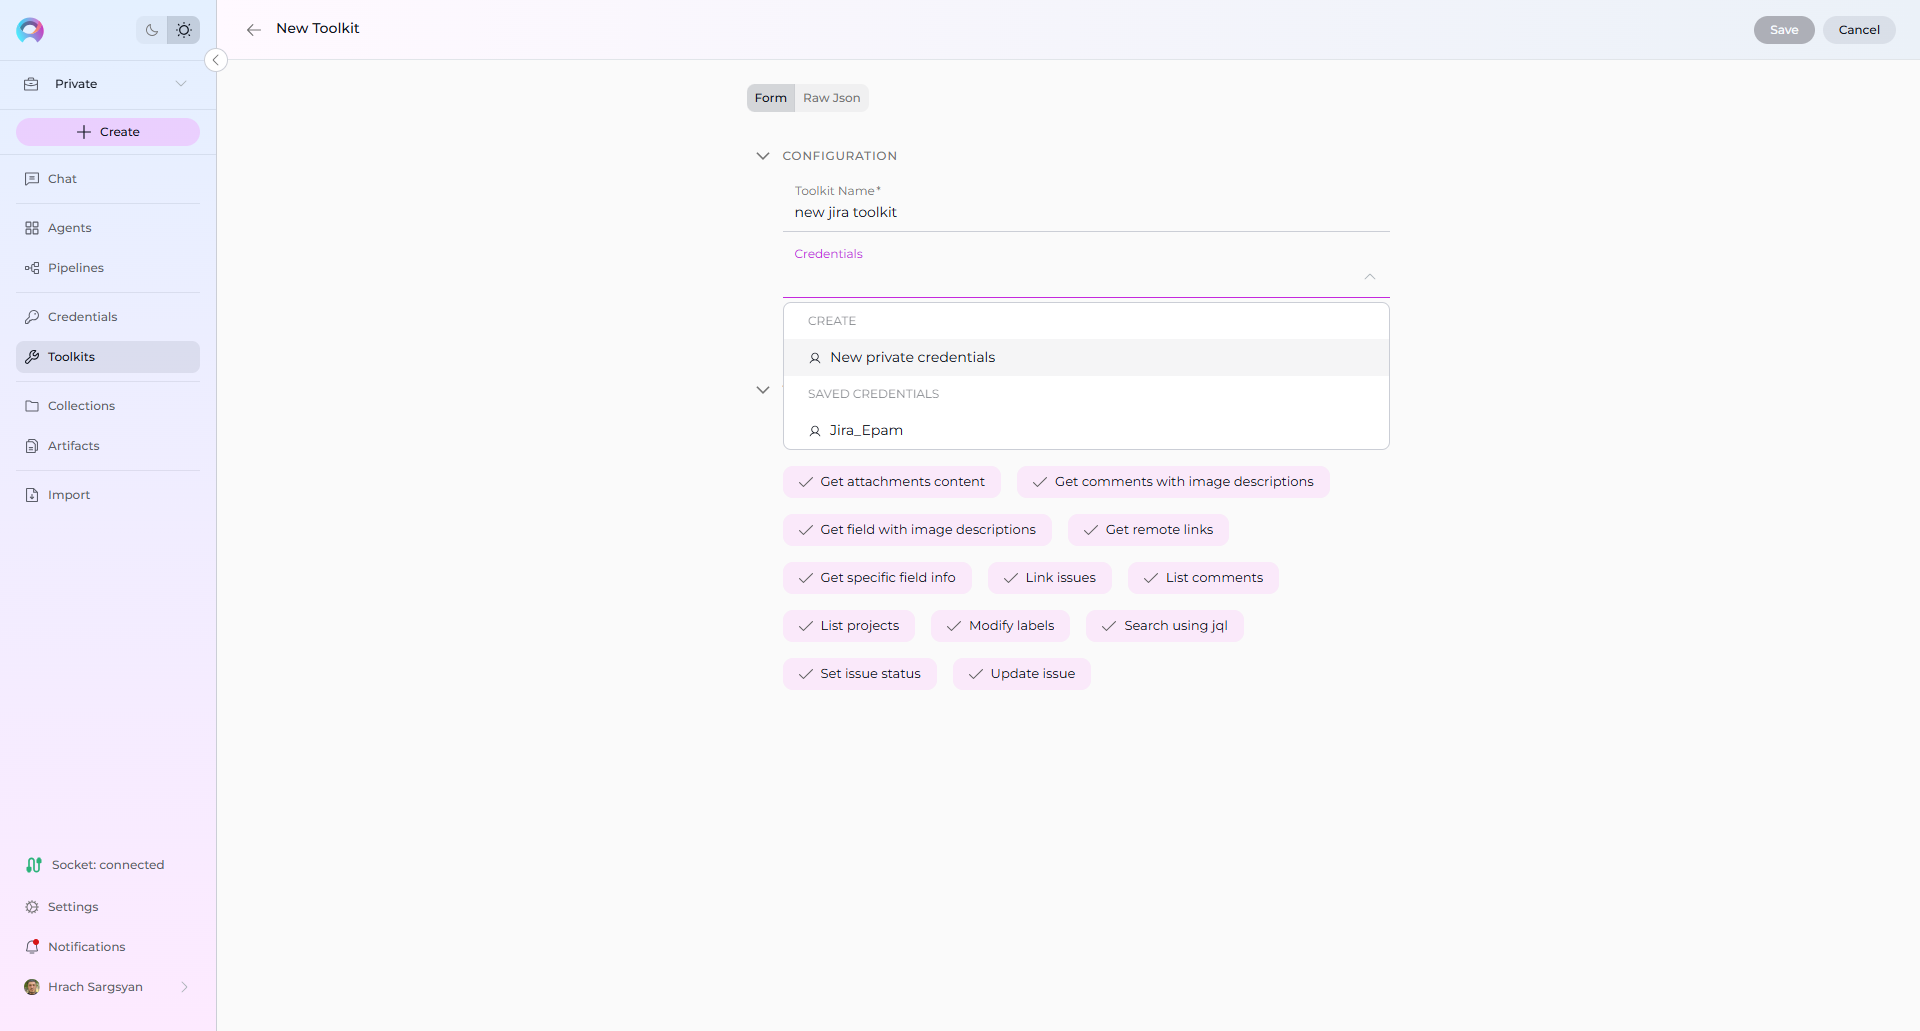
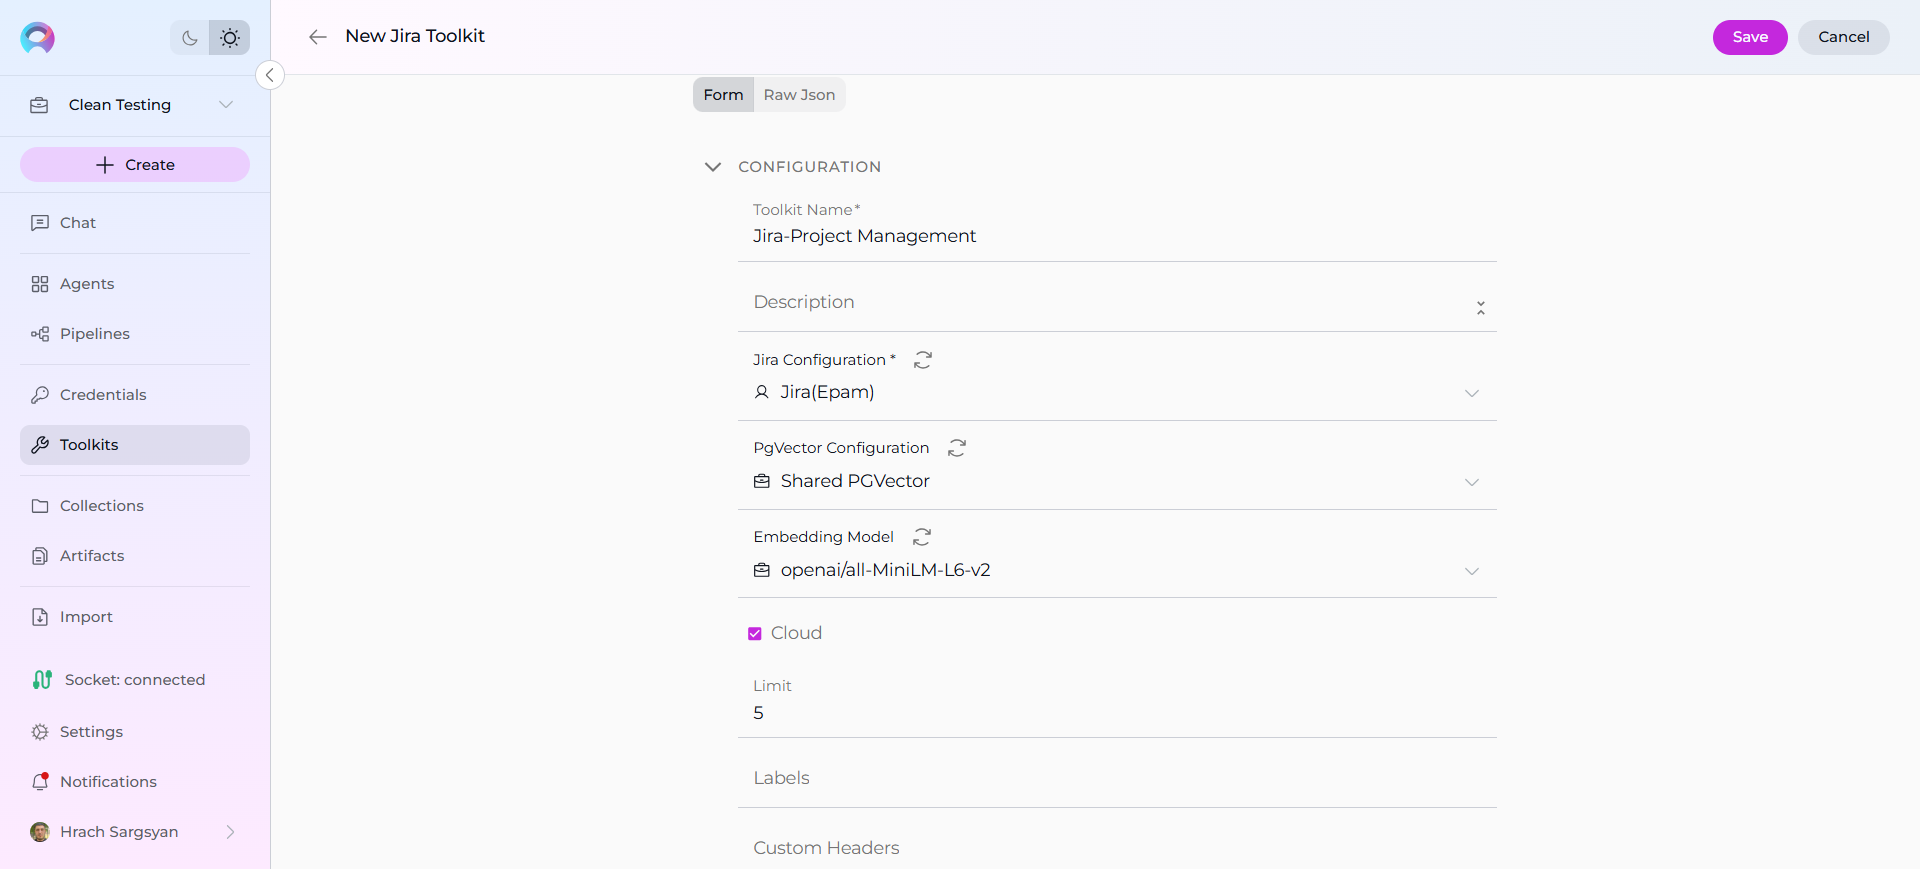
Update Toolkits guides and supported credential types

diff --git a/docs/menus/toolkits.md b/docs/menus/toolkits.md
@@ -48,13 +48,16 @@ Follow these steps to add a new integration to the platform:
 5. **Configure Credentials or Settings:**
        * If the toolkit requires credentials, open the Credentials dropdown and either create new credentials or select an existing one. Enter any required parameters (API keys, tokens, service URLs, etc.) as prompted.
        * For toolkits that do not require credentials, configuration fields will be shown directly on the create toolkit page. Fill in the necessary settings as prompted for that toolkit type.
-6. **Enable Tools:** In the "Tools" section, check only the tools your agent will use. Enabling only necessary tools improves security (principle of least privilege).
-7. **Save the Toolkit:** Click **Save** (top right) to add the toolkit to your dashboard. It will now appear in the list, ready for assignment or testing.
+6. **Configure Advanced Options (Optional):**
+       * **PgVector Configuration:** Many toolkits now support vector database integration through PgVector. If available, select or configure a PgVector connection from the configuration dropdown to enable vector storage capabilities for document indexing and similarity search.
+       * **Embedding Model:** For toolkits that support text processing and semantic search, select an appropriate embedding model configuration from the dropdown. This enables the toolkit to process and understand text content for advanced search and analysis features.
+7. **Save the Toolkit:** Click **Save** (top right) to create the toolkit. It will now appear in your toolkits dashboard, where you can access its detailed configuration page to manage tool selection and other settings.
 
  ![Toolkits-Create](../img/menus/toolkits/new_configs.png)
 
-!!! note "Note"
-    Only users with the necessary permissions can create or configure toolkits. If the `+ Create` button is disabled for you, please contact your platform administrator.
+!!! note "Important Notes"
+    * After creating a toolkit, you'll need to configure which specific tools are enabled by visiting the toolkit's detailed page. Tool selection is managed post-creation for better organization and security.
+    * Only users with the necessary permissions can create or configure toolkits. If the `+ Create` button is disabled for you, please contact your platform administrator.
 
 ---
 
@@ -80,6 +83,37 @@ The platform supports a wide range of toolkits, organized by category. Below is 
 
 ---
 
+## Advanced Configuration Options
+
+Many toolkits in the ELITEA platform now support advanced configuration options that enhance their capabilities for document processing, search, and AI-powered features:
+
+### PgVector Configuration
+
+**PgVector Configuration** enables vector database integration for toolkits that support document indexing and similarity search capabilities.
+
+* **Purpose:** Provides vector storage for embedding-based search and document retrieval
+* **Configuration:** Requires a connection string to your PgVector database instance
+* **Supported Toolkits:** Available in toolkits such as Figma, Jira, TestRail, ADO, Sharepoint, Zephyr variants, and others that handle document or content processing
+* **Benefits:** Enables semantic search, document similarity analysis, and improved content discovery within integrated platforms
+
+### Embedding Model Configuration
+
+**Embedding Model Configuration** allows toolkits to process and understand text content for advanced search and analysis features.
+
+* **Purpose:** Converts text content into vector representations for semantic understanding
+* **Configuration:** Select from available embedding model configurations in your project
+* **Supported Toolkits:** Available in the same toolkits that support PgVector configuration
+* **Benefits:** Enables natural language queries, content similarity matching, and AI-powered content analysis
+
+!!! tip "Configuration Requirements"
+    To use these advanced features, ensure that:
+    
+    * PgVector database is properly configured and accessible
+    * Embedding model credentials are set up in your project's AI Configuration
+    * Both configurations are created before toolkit setup for seamless integration
+
+---
+
 ## Editing and Configuring a Toolkit
 
 
@@ -87,7 +121,9 @@ The platform supports a wide range of toolkits, organized by category. Below is 
 
 To edit a toolkit, open its detailed page from the Toolkits dashboard. On this page, you can:
 
-* **Edit Toolkit Details:** Update the name, description, credentials (API keys, tokens, service URLs), enabled tools, and any custom or advanced options directly in the configuration panel.
+* **Edit Toolkit Details:** Update the name, description, credentials (API keys, tokens, service URLs), and any custom or advanced options directly in the configuration panel.
+* **Manage Tool Selection:** Configure which specific tools are enabled for this toolkit. In the "Tools" section, check only the tools your agent will use. Enabling only necessary tools improves security (principle of least privilege) and optimizes performance.
+* **Update Advanced Configurations:** Modify PgVector configuration settings or change embedding model selections to optimize performance or adapt to new requirements.
 * **Save Changes:** Click **Save** to apply your updates. Changes are applied immediately and reflected in the dashboard.
 * **Remove Toolkit:** Click the **Remove** (trash) icon to delete the toolkit. Confirm the removal in the dialog.
 * **Copy Link:** Click the copy link icon to copy a direct link to the toolkit’s detailed page—useful for sharing with teammates who have access.
@@ -95,8 +131,18 @@ To edit a toolkit, open its detailed page from the Toolkits dashboard. On this p
 
  ![Toolkits-Manage](../img/menus/toolkits/config_toolkit.png)
 
+### Tool Selection Best Practices
+
+When selecting tools for your toolkit:
+    
+* **Review available tools** carefully and enable only those needed for your specific use case
+* **Test each enabled tool** using the Test Settings panel to ensure proper functionality
+* **Update tool selection** as your requirements change or new tools become available
+
+    ![Toolkits-Create](../img/menus/toolkits/select-tools.png)
+
 !!! tip "Tip"
-    Regularly use the edit function to rotate credentials or update toolkit capabilities as your needs change.
+    Regularly use the edit function to rotate credentials, update tool selections, or modify toolkit capabilities as your needs change.
 
 ---
 
@@ -176,8 +222,12 @@ The Toolkits menu is your gateway to extending agent capabilities across a range
 
 ---
 
-## Related Documentation
 
-* Agents: Configure agents and assign toolkits — see [Agents](./agents.md).
-* Credentials: Learn how to create and manage credentials used by toolkits — see [Credentials](./credentials.md).
-* Glossary: Definitions of common terms used across the platform — see [Glossary](../home/glossary.md).
+!!! info "Additional Resources"
+    Explore these related guides to maximize your toolkit usage:
+
+    * **[Glossary](../home/glossary.md)** — Definitions of common terms used across the platform
+    * **[Agents](./agents.md)** — Configure agents and assign toolkits to enable automated workflows
+    * **[Credentials](./credentials.md)** — Learn how to create and manage credentials used by toolkits
+    * **[AI Configuration](./settings/ai-configuration.md)** — Set up embedding models and vector configurations
+    * **[Secrets Management](./secrets.md)** — Secure credential storage best practices

diff --git a/docs/getting-started/create-toolkit.md b/docs/getting-started/create-toolkit.md
@@ -20,11 +20,15 @@ Toolkits in ELITEA are the building blocks that empower your agents to interact 
       * **Configure Credentials or Settings:**
         * In the CONFIGURATION section, select a credential from the “Credentials” dropdown, or create a new one if necessary.
         * Fill out any additional configuration fields as prompted (such as API endpoints, project keys, etc.).
-      * **Enable Tools:** In the “Tools” section, select only the tools your agent will use for security and clarity.
-
+      * **Configure Advanced Options (Optional):**
+        * **PgVector Configuration:** Many toolkits now support vector database integration through PgVector. If available, select or configure a PgVector connection from the configuration dropdown to enable vector storage capabilities for document indexing and similarity search.
+        * **Embedding Model:** For toolkits that support text processing and semantic search, select an appropriate embedding model configuration from the dropdown. This enables the toolkit to process and understand text content for advanced search and analysis features.
 3. **Save the Toolkit:**
       * Click **Save** to add the toolkit to your dashboard.
       * The new toolkit will now appear in your list of available toolkits.
+4. **Enable Tools:** 
+     * Open the newly created toolkit.
+     * Configure which specific tools are enabled for this toolkit. In the "Tools" section, check only the tools your agent will use. Enabling only necessary tools improves security (principle of least privilege) and optimizes performance.      
 
 !!! note "Reference"
       For detailed instructions on creating credentials, refer to the [Create Credentials](../menus/credentials.md) document.
@@ -67,6 +71,10 @@ To integrate Slack or any other toolkit, you'll need to configure it within an E
      * Ensure the toolkit was created and saved successfully.
 * **Agent actions failing?**  
      * Double-check toolkit credentials and configuration, and ensure the agent has the correct toolkits assigned.
+     * Verify that the required tools are enabled in the toolkit's tool selection.
+* **PgVector or Embedding Model options not available?**
+     * Ensure your toolkit type supports these advanced features (available in document/content processing toolkits).
+     * Verify that PgVector database and embedding model configurations are set up in your project's AI Configuration.
 * **Permission errors?**  
      * Make sure you have the necessary permissions to assign toolkits and agents.
 
@@ -79,3 +87,11 @@ To integrate Slack or any other toolkit, you'll need to configure it within an E
 By following these steps, you can create a toolkit and assign it to an agent, enabling automated, secure, and powerful interactions with your enterprise tools through ELITEA agents.
 
 ---
+
+!!! info "Additional Resources"
+    
+    * **[Glossary](../home/glossary.md)** — Definitions of common terms used across the platform
+    * **[Toolkits](../menus/toolkits.md)** — Complete guide to the Toolkits menu interface and advanced configuration options
+    * **[Agents](../menus/agents.md)** — Configure agents and assign toolkits to enable automated workflows
+    * **[Credentials](../menus/credentials.md)** — Learn how to create and manage credentials used by toolkits
+    

diff --git a/docs/menus/credentials.md b/docs/menus/credentials.md
@@ -32,19 +32,23 @@ The ELITEA platform currently supports the following credential types, allowing 
 
 | **Credential Type**             | **Typical Use Case**                 |
 |---------------------------------|--------------------------------------|
-| **Azure DevOps**                | Project management, CI/CD, code      |
-| **Azure DevOps Repositories**   | Code repositories, version control   |
+| **Ado**                         | Project management, CI/CD, code      |
+| **ADO Repos**                   | Code repositories, version control   |
 | **Bitbucket**                   | Code repositories, CI/CD             |
 | **Confluence**                  | Documentation, wiki management       |
+| **Figma**                       | Design collaboration, prototyping    |
 | **GitHub**                      | Code repositories, automation        |
 | **GitLab**                      | Code repositories, CI/CD             |
 | **Jira**                        | Issue and project tracking           |
 | **Postman**                     | API management, integration testing  |
 | **QTest**                       | Test management                      |
-| **S3Config**                    | AWS S3 storage, file management      |
+| **Rally**                       | Agile project management             |
 | **ServiceNow**                  | IT service management, workflow      |
 | **Slack**                       | Team messaging, notifications        |
-| **Testrail**                    | Test management                      |
+| **TestRail**                    | Test management                      |
+| **Xray**                        | Test management for Jira             |
+| **Zephyr Enterprise**           | Test management, enterprise scale    |
+| **Zephyr Scale**                | Test management for Jira Cloud      |
 
 
 ---
@@ -125,3 +129,11 @@ For further assistance, contact your platform administrator.
 The **Credentials** menu provides a secure and efficient way to manage authentication details for all your ELITEA platform integrations. By following this guide, you can easily add, edit, and assign credentials to toolkits and agents—enabling secure, automated workflows across your enterprise.
 
 ---
+
+!!! info "Additional Resources"
+    Explore these related guides to enhance your credential management experience:
+
+    * **[Glossary](../home/glossary.md)** — Definitions of common terms used across the platform
+    * **[Toolkits](../menus/toolkits.md)** — Complete guide to the Toolkits menu interface and advanced configuration options
+    * **[Credentials](./credentials.md)** — Learn how to create and manage credentials used by toolkits
+    * **[Secrets Management](./settings/secrets.md)** — Secure credential storage best practices
